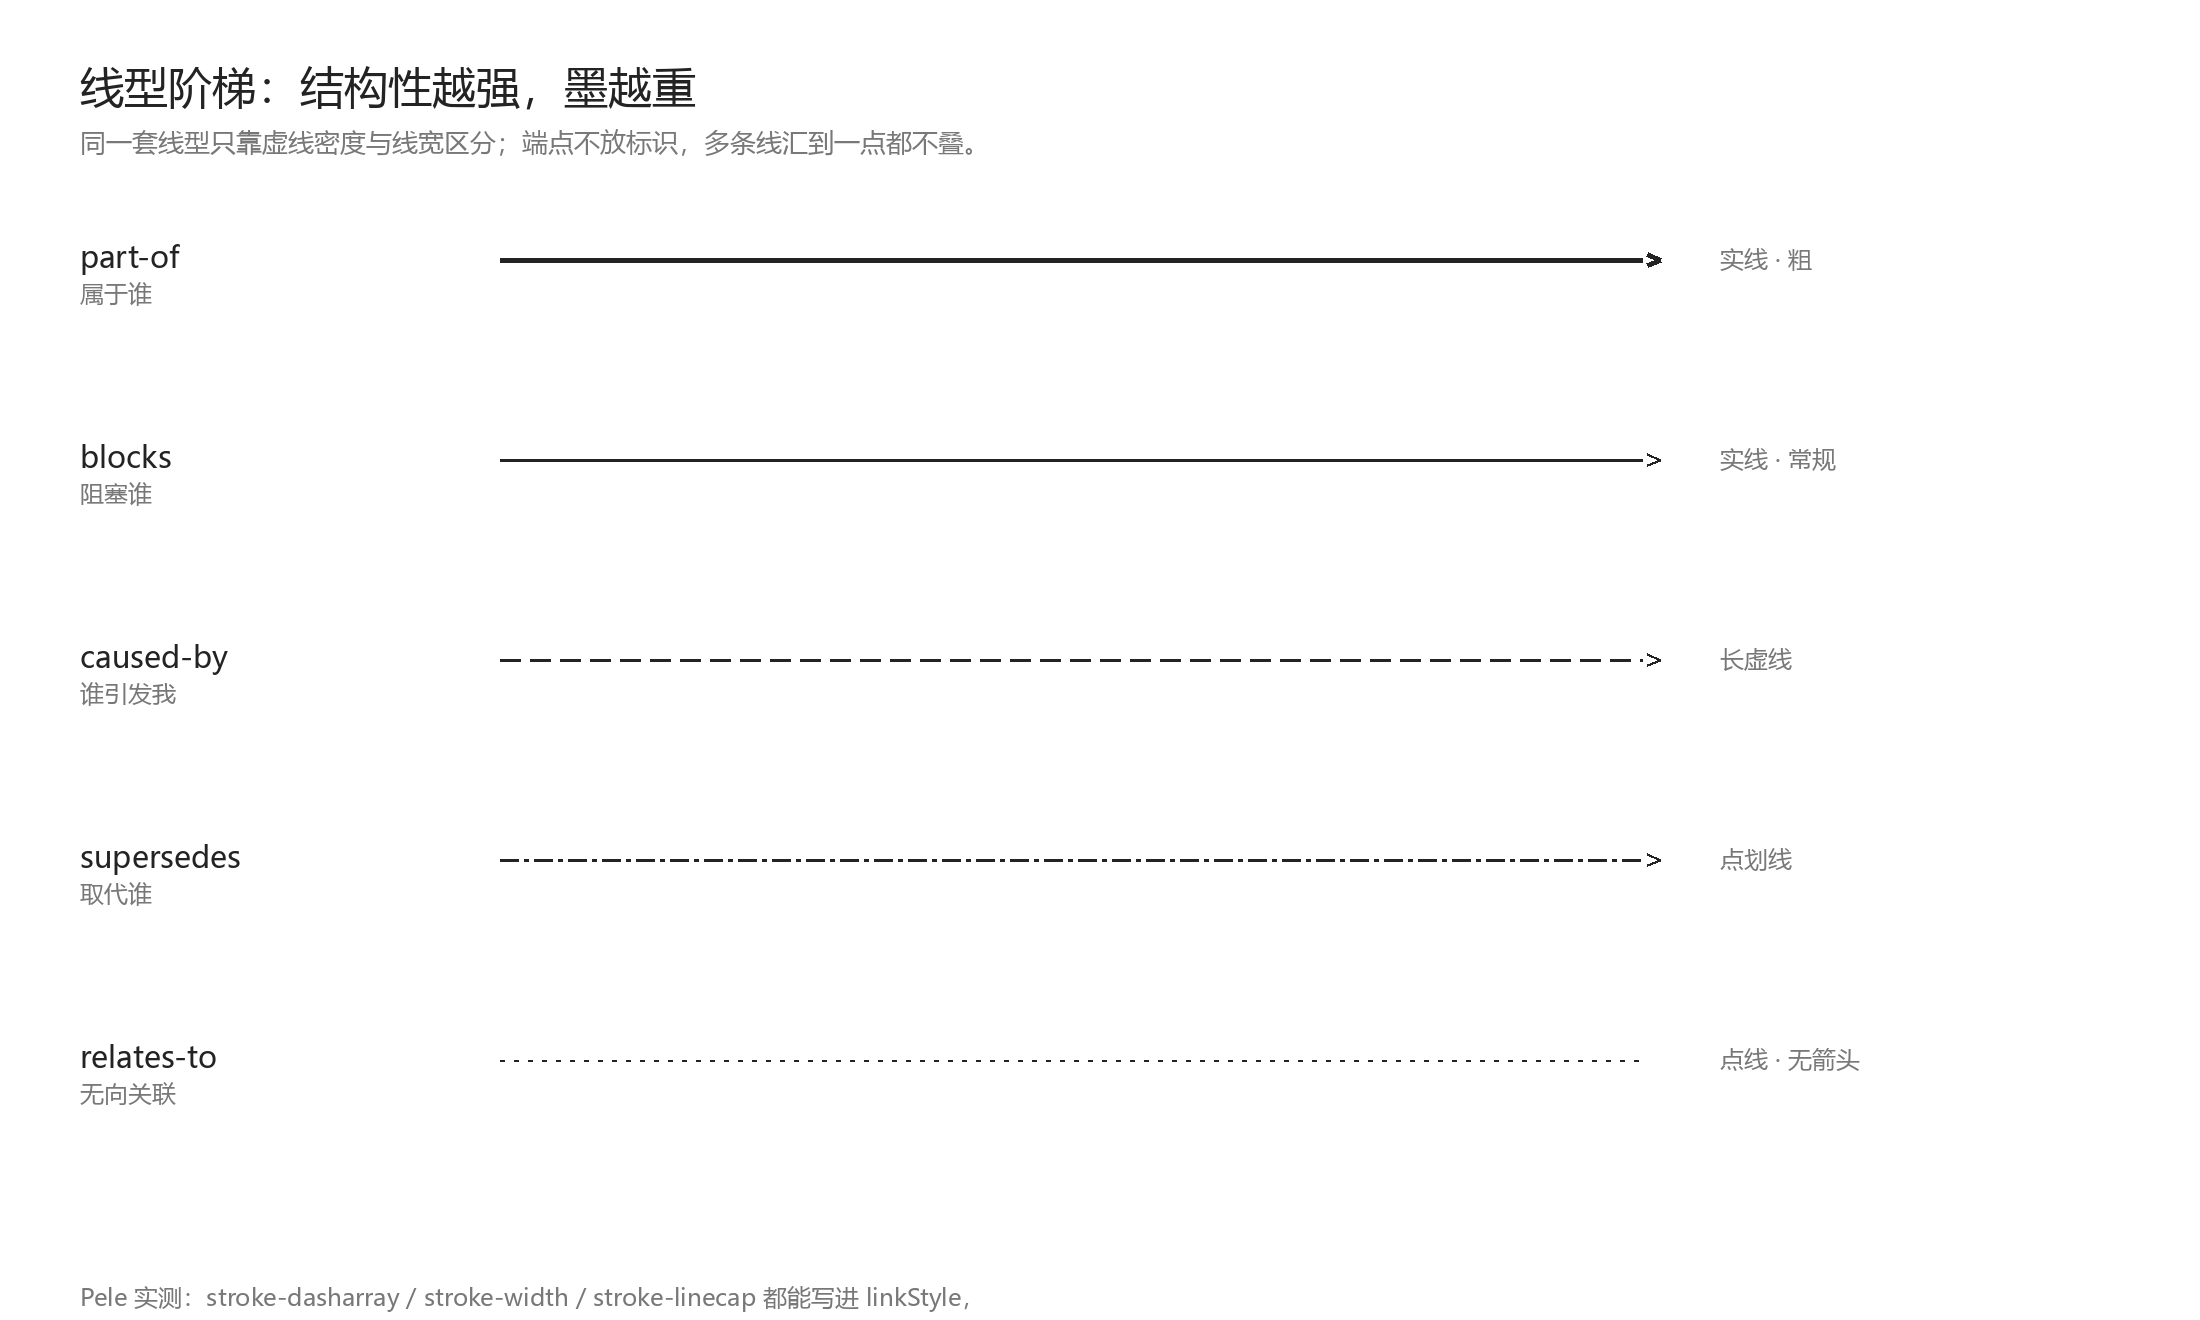
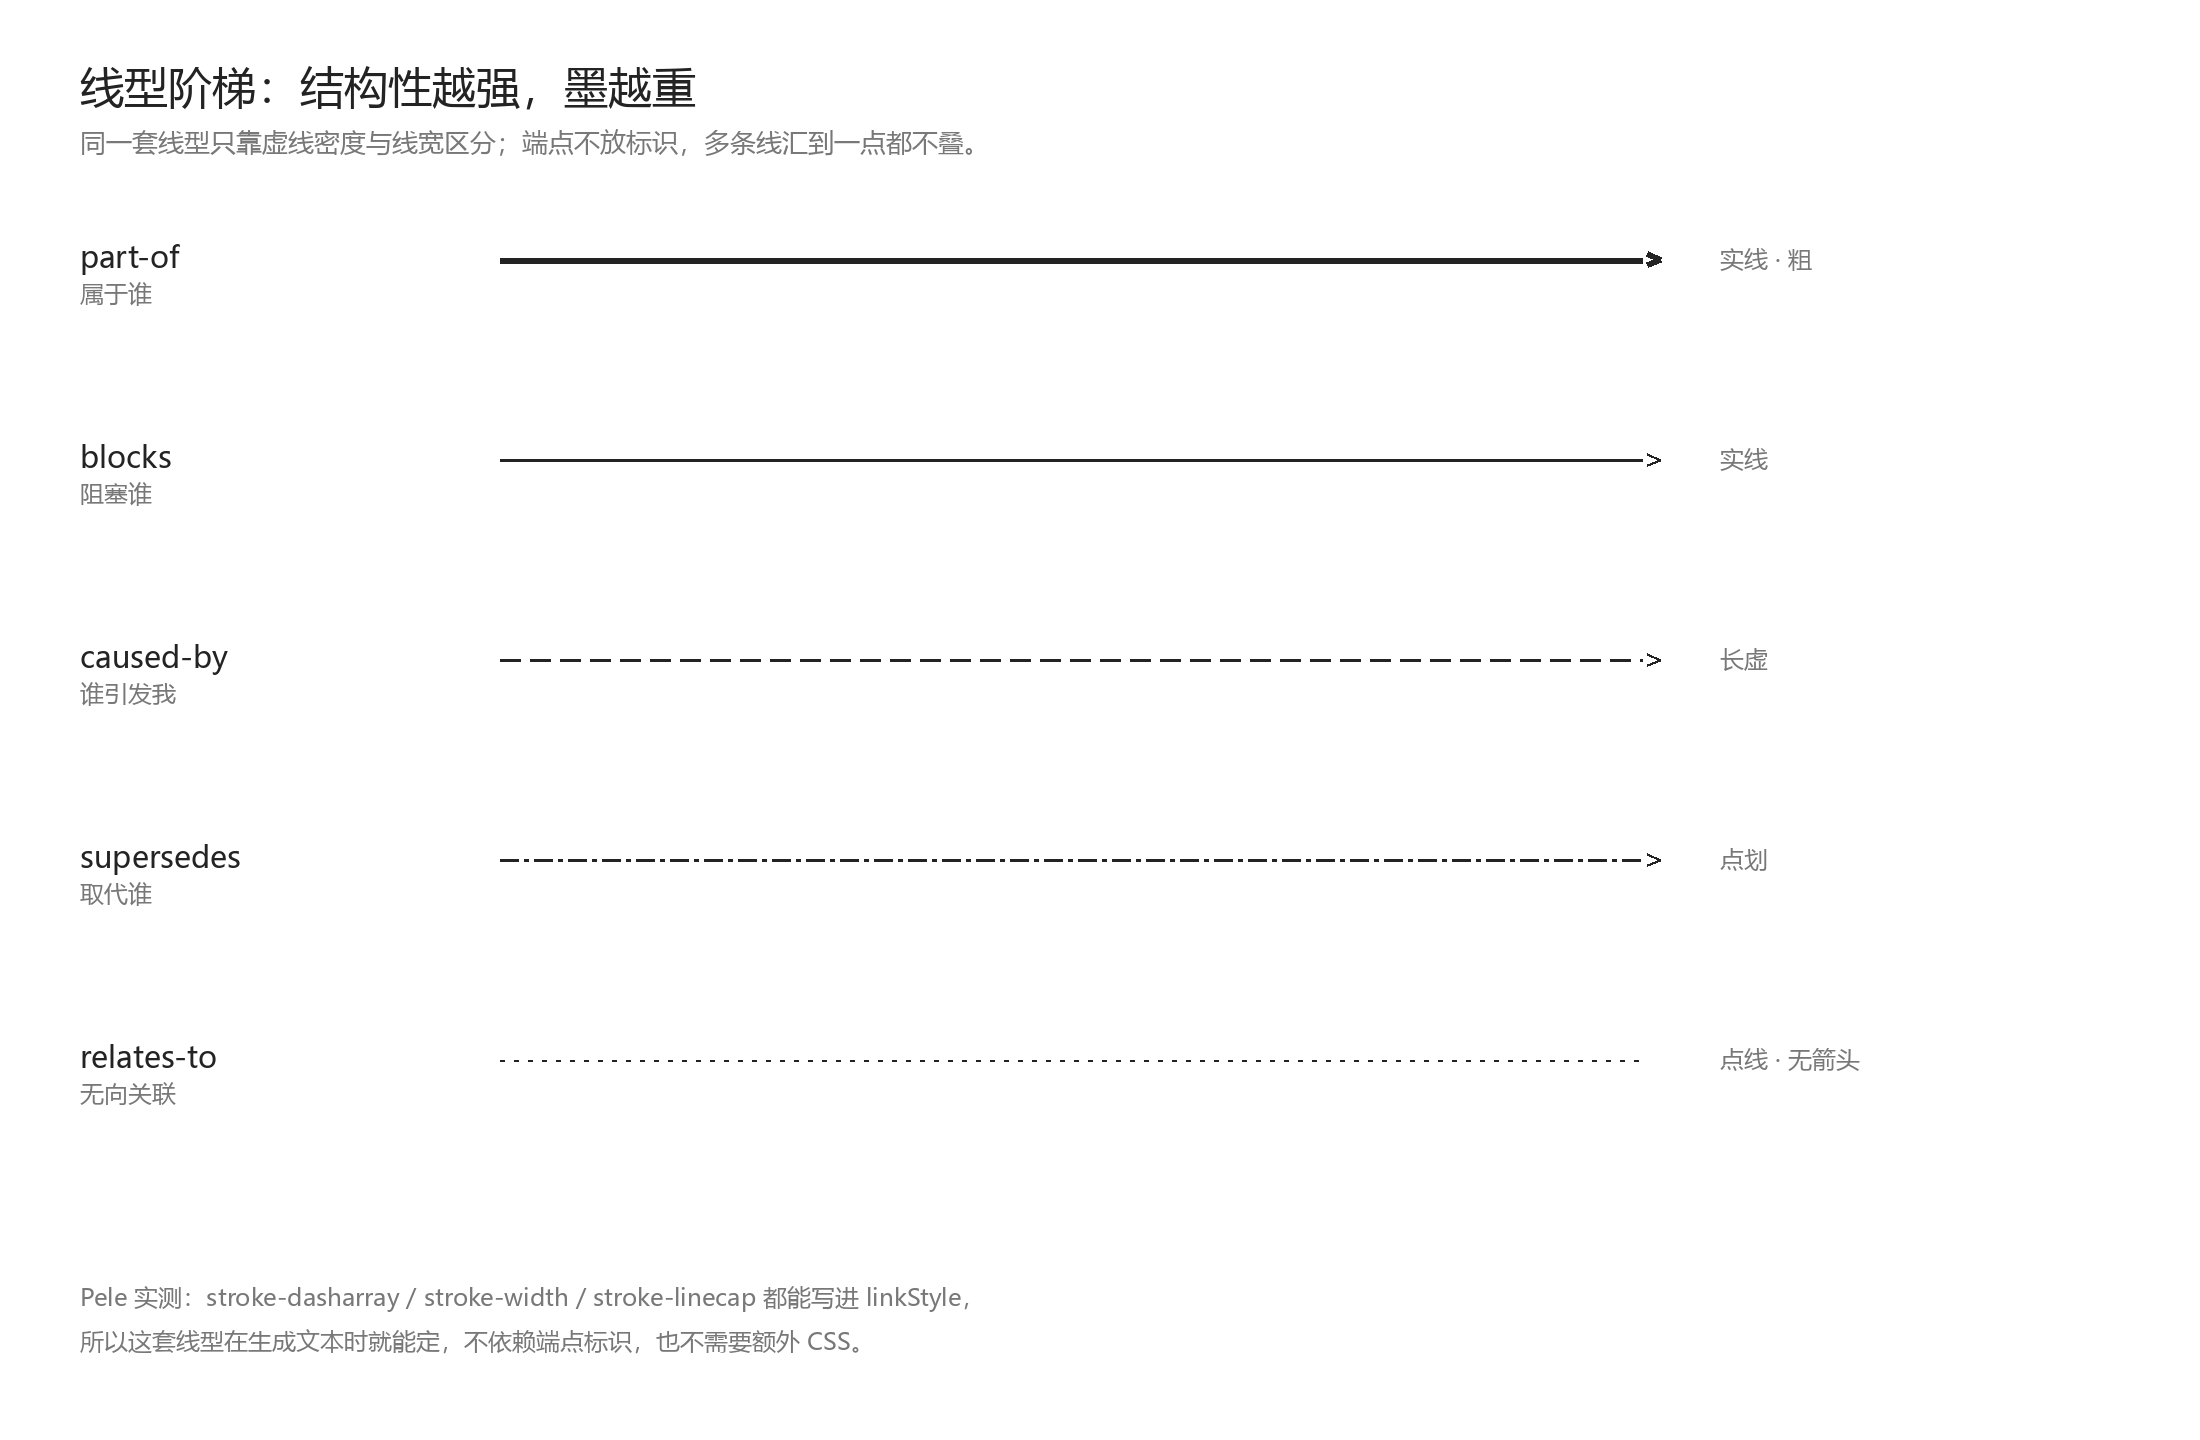
part-of 加粗到 3.4px：与 blocks 的 1.6px 拉开两倍，图例与示意图同步重画
issue: kiln-graph-label-threshold
action: apply
title: part-of 加粗到 3.4px：与 blocks 的 1.6px 拉开两倍，图例与示意图同步重画
refs: docs/issues/assets
target: plugin/lib/client.js
domain: integration

diff --git a/plugin/lib/client.js b/plugin/lib/client.js
@@ -66,7 +66,7 @@ window.__ModuleLoader__.load({
      * 端点标识会叠在一起（见 docs/issues/kiln-graph-label-threshold.md）。
      */
     const EDGE_STROKE = {
-      'part-of': 'stroke-width:2.6px',
+      'part-of': 'stroke-width:3.4px',
       blocks: 'stroke-width:1.6px',
       'caused-by': 'stroke-width:1.6px,stroke-dasharray:10 5',
       supersedes: 'stroke-width:1.6px,stroke-dasharray:9 3 2 3',

diff --git a/docs/issues/kiln-graph-label-threshold.md b/docs/issues/kiln-graph-label-threshold.md
@@ -244,7 +244,7 @@ linkStyle 1 stroke:#00aa00,stroke-width:3px
 
 | 关系 | dasharray | 线宽 | 箭头 |
 | --- | --- | --- | --- |
-| `part-of` | 实线 | 2.6 | 有 |
+| `part-of` | 实线 | 3.4 | 有 |
 | `blocks` | 实线 | 1.5 | 有 |
 | `caused-by` | `10 5` | 1.5 | 有 |
 | `supersedes` | `9 3 2 3`（点划） | 1.5 | 有 |
@@ -278,7 +278,7 @@ linkStyle 1 stroke:#00aa00,stroke-width:3px
 
 | 关系 | linkStyle | 箭头 |
 | --- | --- | --- |
-| `part-of` | `stroke-width:2.6px` | 有 |
+| `part-of` | `stroke-width:3.4px` | 有 |
 | `blocks` | `stroke-width:1.6px` | 有 |
 | `caused-by` | `stroke-width:1.6px,stroke-dasharray:10 5` | 有 |
 | `supersedes` | `stroke-width:1.6px,stroke-dasharray:9 3 2 3` | 有 |
@@ -351,3 +351,6 @@ linkStyle 1 stroke:#00aa00,stroke-width:3px
 淡出规则删掉，只在行的 `title` 里保留一句“当前视图没画这类关系”（鼠标悬停才出现）。
 
 用例相应改成断言：图例里**不存在**淡出行，且未画的类别靠 `title` 提示。
+
+（线宽微调：`part-of` 2.6px → **3.4px**。实测 2.6 与 1.6 的差别在图上看不出来，加粗到 3.4 之后
+“结构最硬的那类”一眼能分出来；`blocks` 保持 1.6。附带把 `assets/` 里的阶梯图与应用示意图按新线宽重新生成。）
